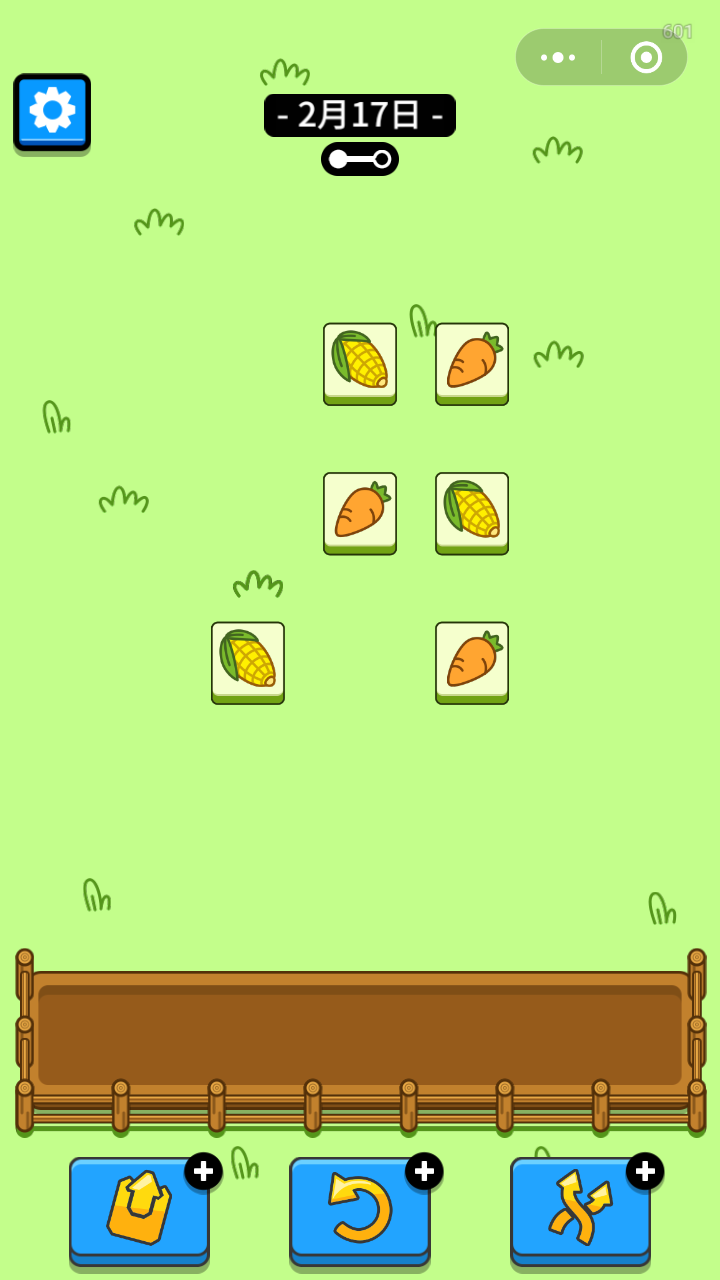
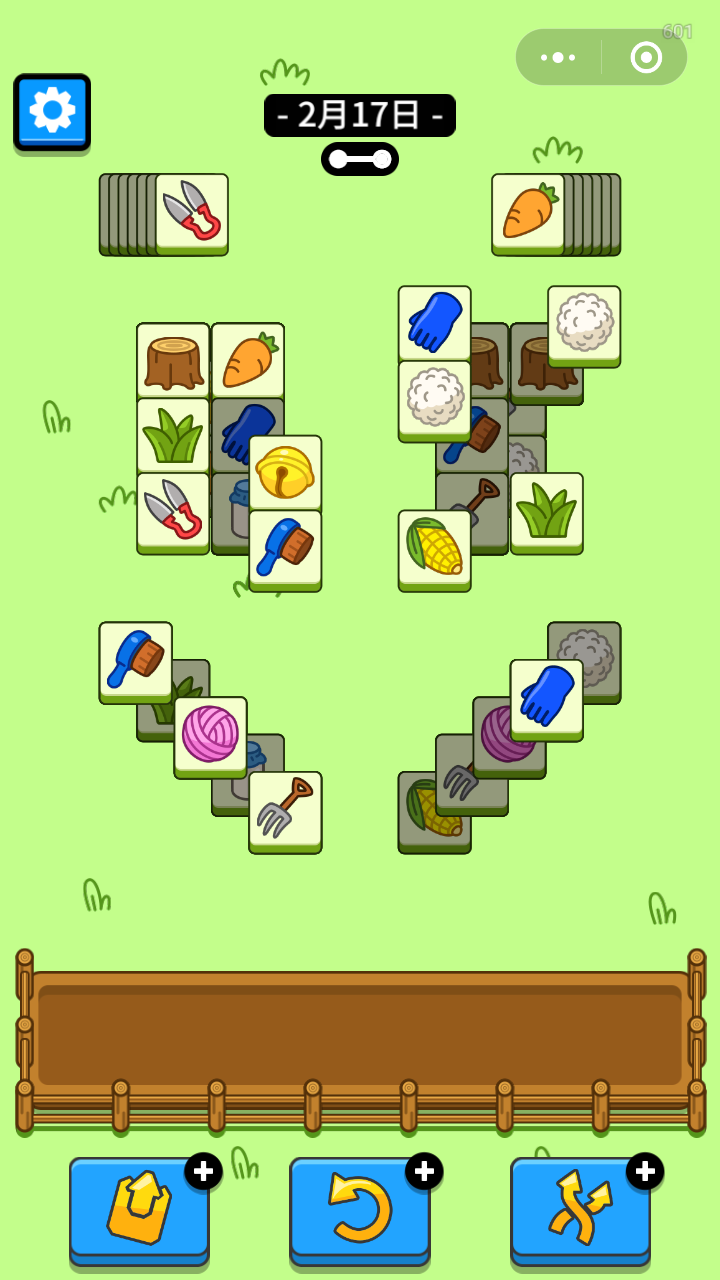
fix(restart)

Changed region(s): [[0.1222, 0.125, 0.8861, 0.6875], [0.1222, 0.125, 0.3361, 0.2188], [0.5194, 0.0938, 0.55, 0.125]]

diff --git a/yang_processor.py b/yang_processor.py
@@ -291,8 +291,11 @@ def auto_yang_level(level,aim_size,aim_size_detail):
 			
 		# 	return -1
 
-		mobile_controller.wait_to_match_and_click(
+		result = mobile_controller.wait_to_match_and_click(
 					[r"template_images\restart.png",r"template_images\restart3.png"],[0.01,0.01],True,1,0.1)
+		if (result == "success"):
+			time.sleep(8)
+			return -1
 
 		# 检查需要跳过
 		result = mobile_controller.wait_to_match_and_click(
